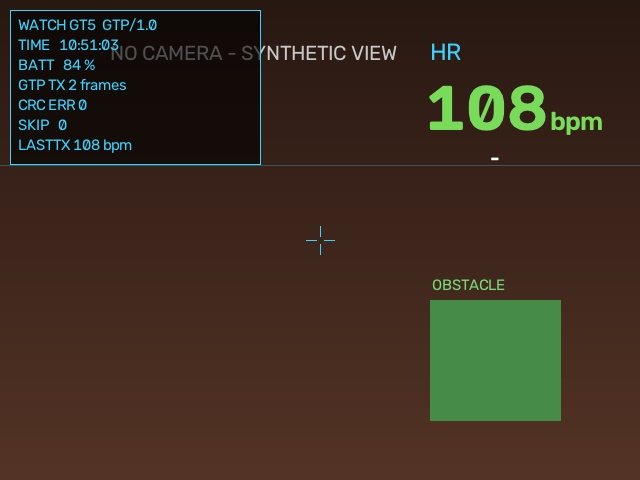
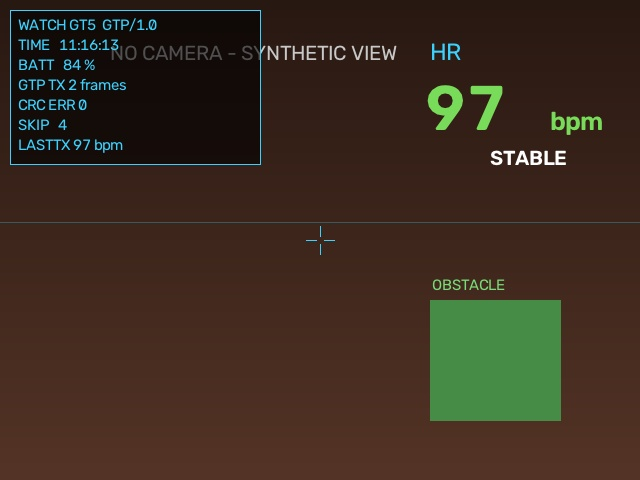
v1.1 feat: 心率平稳跳动显示 + GLM 意图识别开关面板（自然语言控制）

diff --git a/versions/v1.1_watch/hr_hud.py b/versions/v1.1_watch/hr_hud.py
@@ -25,6 +25,16 @@ import numpy as np
 
 sys.path.insert(0, os.path.dirname(os.path.abspath(__file__)))
 import gtp  # noqa: E402
+import json as _json
+import re as _re
+
+try:
+    import brain_api
+    import config as _cfg
+    HAS_AI = bool(_cfg.API_KEY) and "填入" not in _cfg.API_KEY
+except Exception:
+    brain_api = None
+    HAS_AI = False
 
 CYAN = (255, 210, 60)     # 钛金
 GOLD = (80, 200, 255)
@@ -40,7 +50,7 @@ STATE = {"boost": False}
 LOCK = threading.Lock()
 ST = {"bpm": 0, "batt": 84, "frames": 0, "crc": 0, "skip": 0,
       "tx_bpm": None, "trend": [], "last_tx": 0.0, "measuring": True,
-      "frame": None}
+      "frame": None, "hr_visible": True}
 
 
 def put(key, value):
@@ -64,11 +74,12 @@ def sim_thread(stop):
     batt_th = gtp.DeltaThrottle(min_delta=1, max_interval=25)
     while not stop.is_set():
         t += 1
-        target = 118 + 26 * math.sin(t / 18.0)
         if STATE.get("boost"):
-            target = 178
-        bpm += (target - bpm) * 0.25 + random.uniform(-2, 2)
-        bpm = max(58, min(185, bpm))
+            bpm = min(185, bpm + 6)          # 冲刺：快速拉升
+        else:
+            # 平稳随机跳动：小步随机游走 + 向基准 96 缓慢回归
+            bpm += random.choice([-2, -1, 0, 1, 2]) + (96.0 - bpm) * 0.05
+            bpm = max(62, min(148, bpm))
 
         if throttle.should_send(bpm):
             seq += 1
@@ -190,22 +201,30 @@ def draw_hud(img):
         cv2.putText(img, line, (18, 30 + i * 20), FONT, 0.5, CYAN, 1,
                     cv2.LINE_AA)
 
-    # ---- 右上：大号心率 + 趋势 ----
-    hr_color = RED if (measuring and bpm >= 150) else \
-        (GREEN if measuring else GREY)
-    cv2.putText(img, "HR", (w - 210, 60), FONT, 0.8, CYAN, 1, cv2.LINE_AA)
-    if measuring:
-        cv2.putText(img, str(bpm), (w - 215, 130), FONT, 2.2, hr_color, 4,
+    # ---- 右上：大号心率 + 趋势（可被 AI 关闭） ----
+    hr_visible = get("hr_visible")
+    measuring = measuring and bpm > 0 and hr_visible
+    if hr_visible:
+        hr_color = RED if (measuring and bpm >= 150) else \
+            (GREEN if measuring else GREY)
+        cv2.putText(img, "HR", (w - 210, 60), FONT, 0.8, CYAN, 1,
                     cv2.LINE_AA)
-        cv2.putText(img, "bpm", (w - 90, 130), FONT, 0.9, hr_color, 2,
-                    cv2.LINE_AA)
-        ar, ac = trend_arrow(tr)
-        cv2.putText(img, ar, (w - 150, 165), FONT, 0.7, ac, 2, cv2.LINE_AA)
+        if measuring:
+            cv2.putText(img, str(bpm), (w - 215, 130), FONT, 2.2, hr_color,
+                        4, cv2.LINE_AA)
+            cv2.putText(img, "bpm", (w - 90, 130), FONT, 0.9, hr_color, 2,
+                        cv2.LINE_AA)
+            ar, ac = trend_arrow(tr)
+            cv2.putText(img, ar, (w - 150, 165), FONT, 0.7, ac, 2,
+                        cv2.LINE_AA)
+        else:
+            cv2.putText(img, "--", (w - 150, 120), FONT, 2.0, GREY, 3,
+                        cv2.LINE_AA)
+            cv2.putText(img, "NO SIGNAL", (w - 220, 160), FONT, 0.6, GREY,
+                        1, cv2.LINE_AA)
     else:
-        cv2.putText(img, "--", (w - 150, 120), FONT, 2.0, GREY, 3,
-                    cv2.LINE_AA)
-        cv2.putText(img, "NO SIGNAL", (w - 220, 160), FONT, 0.6, GREY, 1,
-                    cv2.LINE_AA)
+        cv2.putText(img, "HR PANEL OFF", (w - 260, 60), FONT, 0.6, GREY,
+                    1, cv2.LINE_AA)
 
     # ---- 告警横幅 ----
     if measuring and bpm >= 150:
@@ -239,6 +258,66 @@ def synthetic_frame():
     return img
 
 
+INTENT_PROMPT = ("你是智能眼镜显示控制器。只输出一个 JSON 对象，禁止输出任何其他文字："
+                 '{"action":"hide","target":"hr"} 表示关闭心率显示，'
+                 '{"action":"show","target":"hr"} 表示打开心率显示。'
+                 "用户指令：")
+
+
+def ai_toggle(text):
+    """自然语言 → 开/关指令。GLM 意图识别优先，失败时本地关键词兜底。"""
+    text = text.strip()
+    action = None
+    if HAS_AI and text:
+        try:
+            resp = brain_api.get_client().chat.completions.create(
+                model="glm-4-flash",
+                messages=[{"role": "user",
+                           "content": INTENT_PROMPT + text}])
+            raw = resp.choices[0].message.content.strip()
+            m = _re.search(r"\{.*\}", raw, _re.S)
+            if m:
+                action = _json.loads(m.group(0)).get("action")
+        except Exception as e:
+            print("[AI] 调用失败，本地规则兜底:", e)
+    if action not in ("show", "hide"):
+        if any(k in text for k in ("关", "隐藏", "收起")):
+            action = "hide"
+        elif any(k in text for k in ("开", "显示", "亮")):
+            action = "show"
+    return action
+
+
+def confirm_speak(text):
+    try:
+        if brain_api is not None:
+            brain_api.speak(text)
+    except Exception:
+        pass
+
+
+def input_thread(stop):
+    """控制台自然语言指令线程：交给 GLM 做意图识别。"""
+    for line in sys.stdin:
+        cmd = line.strip()
+        if not cmd:
+            continue
+        if cmd.lower() in ("q", "quit", "exit"):
+            stop.set()
+            break
+        action = ai_toggle(cmd)
+        if action == "hide":
+            put("hr_visible", False)
+            print("[执行] 心率面板已关闭")
+            confirm_speak("心率面板已关闭")
+        elif action == "show":
+            put("hr_visible", True)
+            print("[执行] 心率面板已开启")
+            confirm_speak("心率面板已开启")
+        else:
+            print("[AI] 未识别指令，可用：打开/关闭心率显示")
+
+
 def main():
     ap = argparse.ArgumentParser(description="v1.1 心率 HUD（sim + GTP）")
     ap.add_argument("--source", choices=["camera", "none"], default="camera")
@@ -255,7 +334,11 @@ def main():
         threading.Thread(target=camera_thread, args=(stop, cap),
                          daemon=True).start()
     threading.Thread(target=sim_thread, args=(stop,), daemon=True).start()
+    if not args.selftest:
+        threading.Thread(target=input_thread, args=(stop,),
+                         daemon=True).start()
     print("HR HUD 已启动：h=模拟测量开关 n=模拟冲刺 s=截图 q=退出")
+    print("控制台输入自然语言可控制显示（如：关闭心率显示）")
 
     if args.selftest:
         deadline = time.time() + 10
@@ -273,7 +356,7 @@ def main():
         stop.set()
         return
 
-    while True:
+    while not stop.is_set():
         frame = get("frame")
         if frame is None:
             frame = synthetic_frame()
